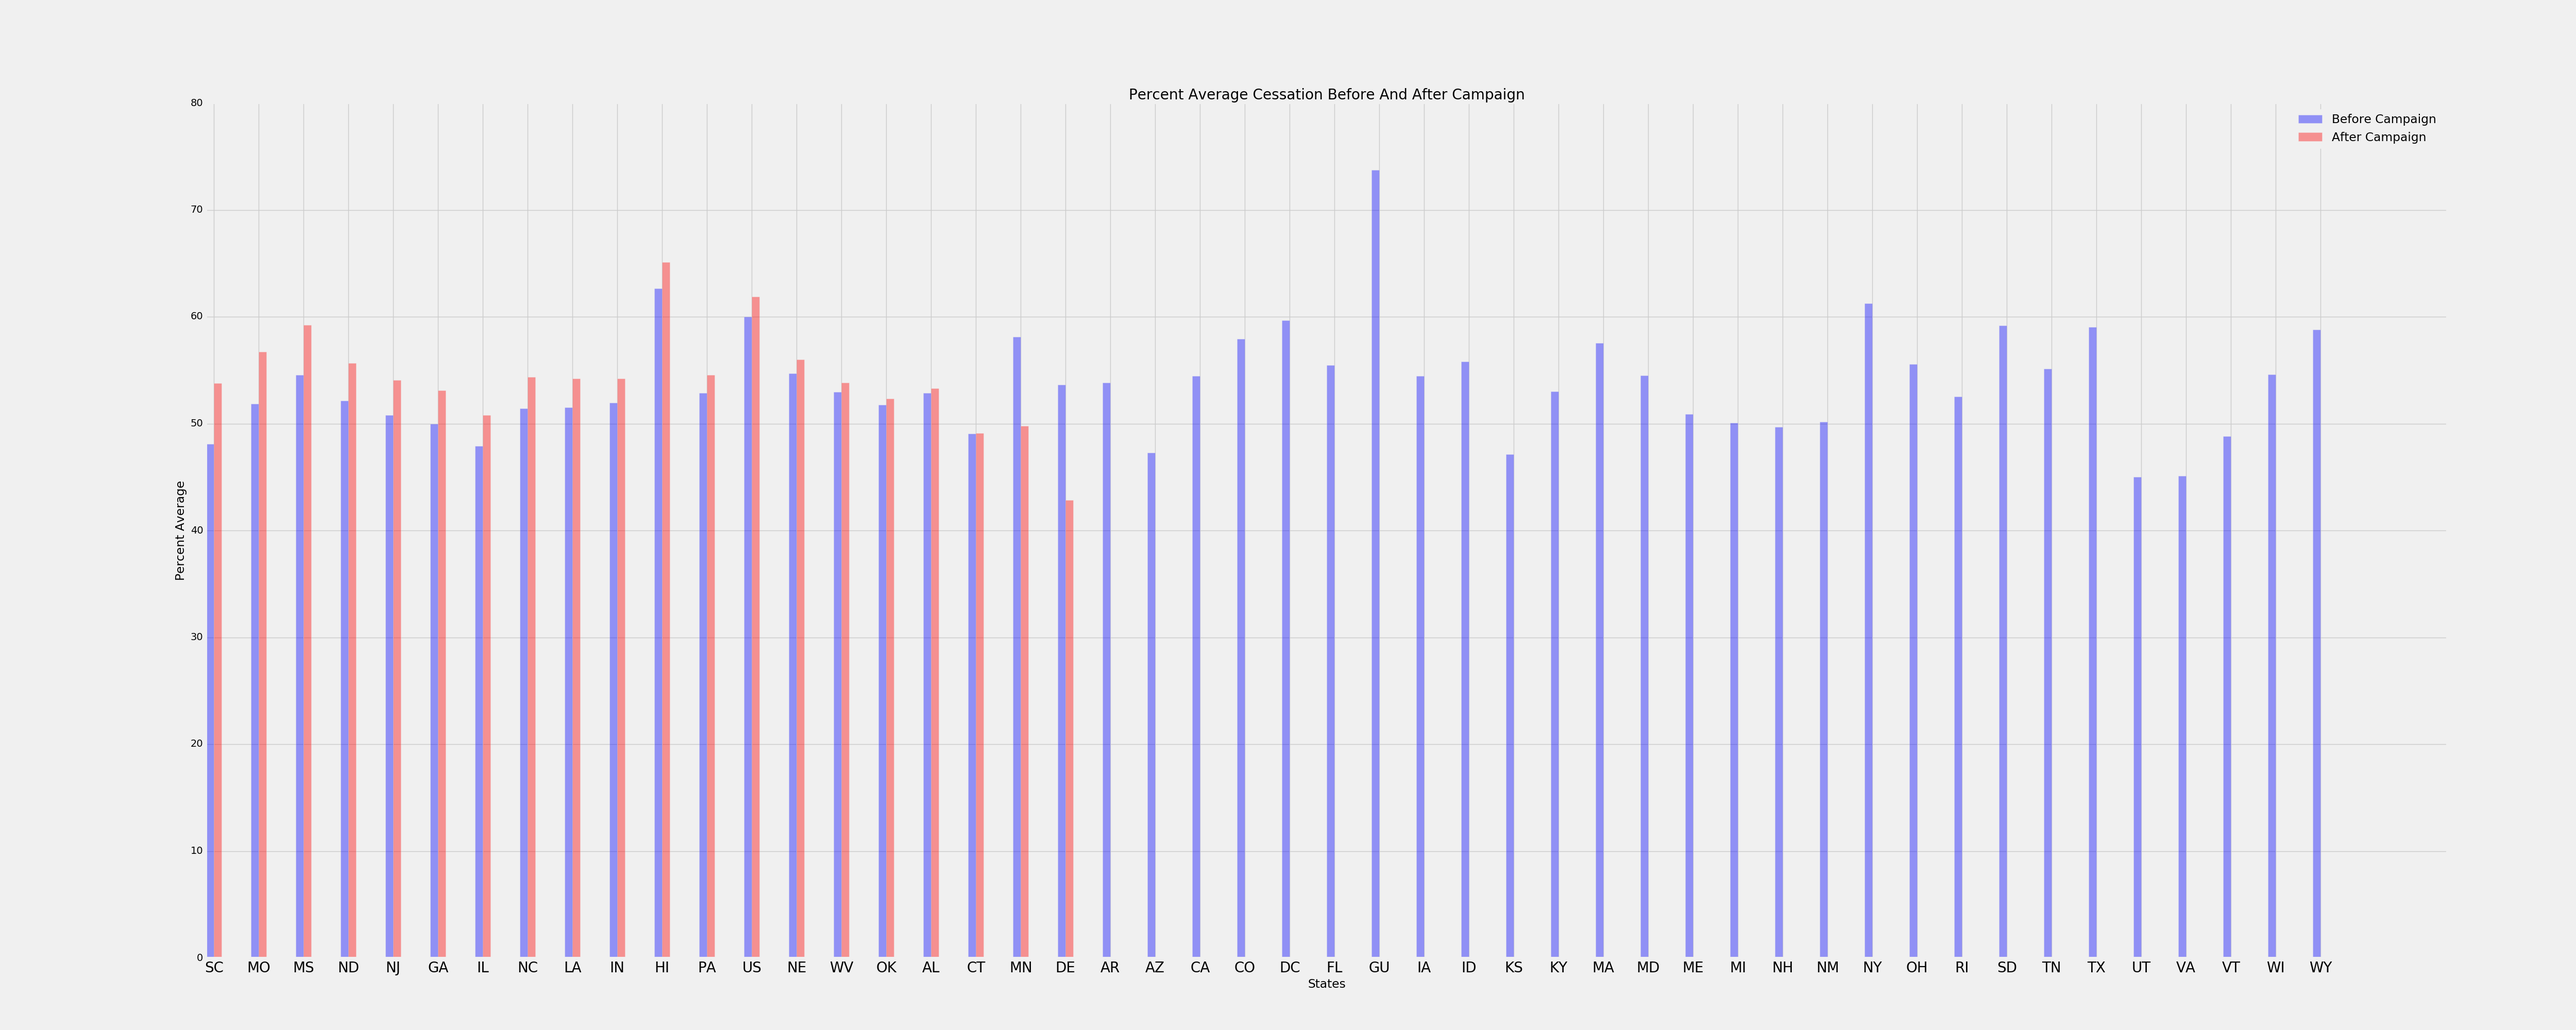
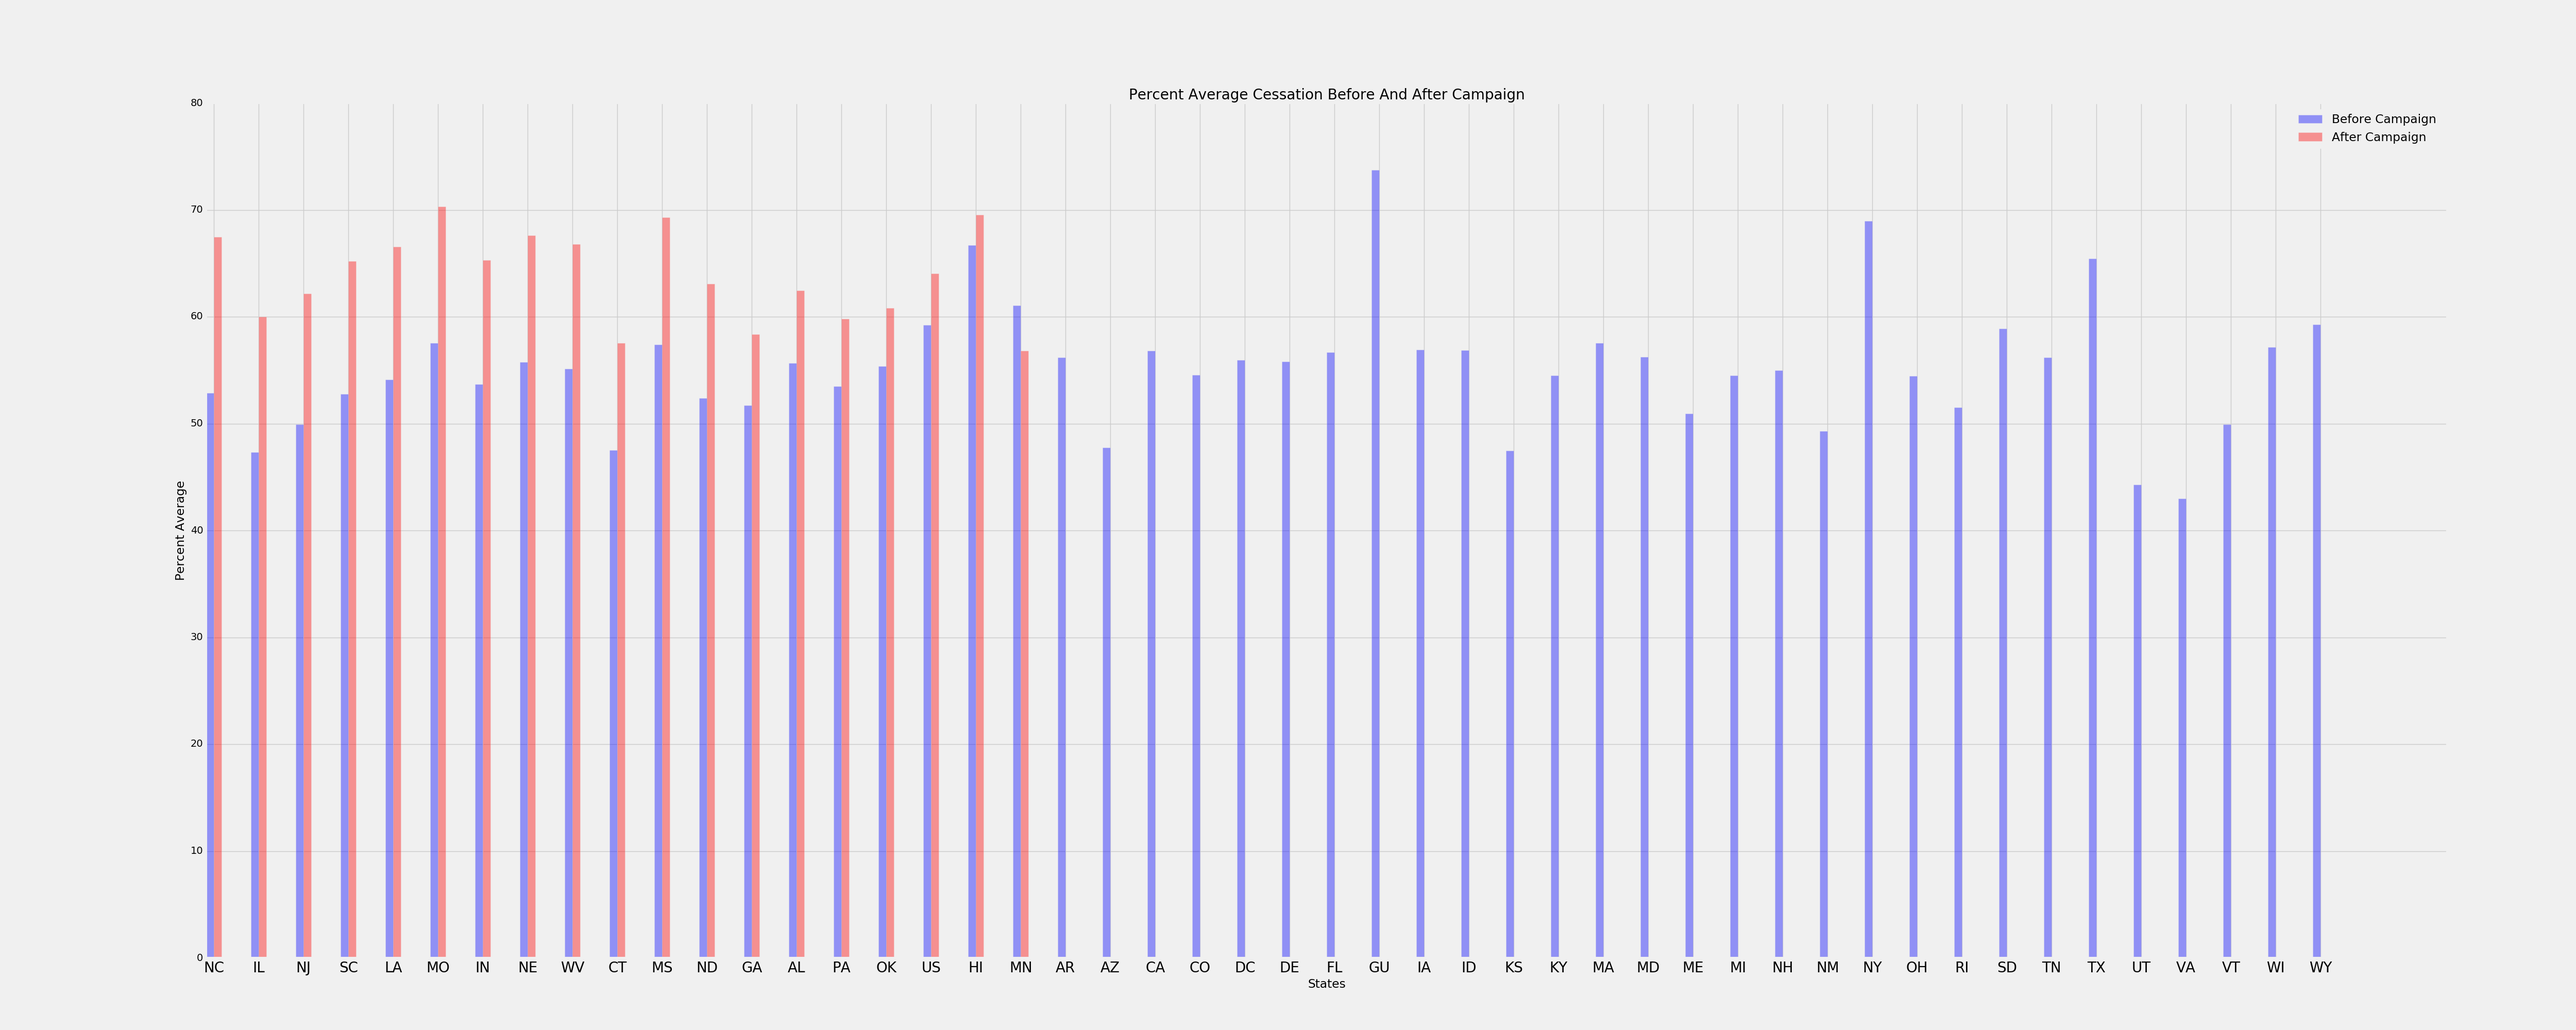
clean code an output file

diff --git a/Python Codes/StateCampaignAnalysis.py b/Python Codes/StateCampaignAnalysis.py
@@ -11,15 +11,19 @@ class StateCampaignAnalysis(YouthSmokingAnalysis):
         YouthSmokingAnalysis.__init__(self)
         
     def analyze(self):
+        print("\nBegin State vs Campaign Analysis")
         self.analyzeCigaretteUse()
         self.analyzeCessation()
         self.analyzeBeforeAndAfterCampaign()
         self.plotBeforeAndAfterCampaign(self.stateCigaretteUseResult,"Cigarette Use")
         self.plotBeforeAndAfterCampaign(self.stateSmokelessTobaccoUseResult,"Smokelese Tobacco")
         self.plotBeforeAndAfterCampaign(self.stateCessationTobaccoUseResult,"Cessation")
+        self.plotAnalyzeCessationAfterCampaign()
         self.plotCigaretteUseAfterCampaign()
+        print("\nEnd State vs Campaign Analysis")
         
     def analyzeCessation(self):
+        print("\nAnalyze Cessation Who Want to Quit VS Quit Attempt for each state.")
         self.stateAndCessation=self.ytsDataFrame[(self.ytsDataFrame.Gender=='Overall')
                                              & (self.ytsDataFrame.TopicDesc=='Cessation (Youth)')
                                              & (self.ytsDataFrame.YEAR>2012)][['YEAR','LocationAbbr','MeasureDesc','Data_Value']].groupby(['LocationAbbr','MeasureDesc'], as_index=False)['Data_Value'].mean()
@@ -39,14 +43,58 @@ class StateCampaignAnalysis(YouthSmokingAnalysis):
         
         self.stateAndCessationBC.reset_index( inplace=True)
         self.stateAndCessationCombine=pandas.merge( self.stateAndCessationBC, self.stateAndCessation, left_on=['LocationAbbr'], right_on=['LocationAbbr'])
-        print(self.stateAndCessationBC)
 
         outputFilePath = str(YouthSmokingAnalysis.outputCSVFolderName+'/State and Cessation Who Want to Quit VS Quit Attempt.csv')
         
         self.stateAndCessationCombine.to_csv(outputFilePath, encoding='utf-8')
+        print("\nAnalyze Cessation Who Want to Quit VS Quit Attempt for each state output file has been stored in ."+outputFilePath+" directory")
 
+    def plotAnalyzeCessationAfterCampaign(self):
+        print("\nPlot Cessation Who Want to Quit VS Quit Attempt for each state after campaign.")
+        plt.style.use('fivethirtyeight')
+
+        n_groups = len(self.stateAndCessation.index)
+        
+        whoWantToQuitDF = self.stateAndCessation["Percent of Current Smokers Who Want to Quit After Campaign"].values
+        quitAttemptCurrentDF= self.stateAndCessation["Quit Attempt in Past Year Among Current Cigarette Smokers After Campaign"].values
+           
+
+        fig, ax = plt.subplots()
+        fig.set_figheight(20)
+        fig.set_figwidth(50)
+        
+        index = numpy.arange(n_groups)
+        index = numpy.arange(0, n_groups * 2, 2)
+        bar_width = 0.35
+
+        opacity = 0.4
+        error_config = {'ecolor': '0.3'}
+
+        rects1 = plt.bar(index, whoWantToQuitDF, bar_width,
+                     alpha=opacity,
+                     color='b',
+                     error_kw=error_config,
+                     label='Percent of Current Smokers Who Want to Quit')
+
+        rects2 = plt.bar(index + bar_width, quitAttemptCurrentDF, bar_width,
+                     alpha=opacity,
+                     color='r',
+                     error_kw=error_config,
+                     label='Quit Attempt in Past Year Among Current Cigarette Smokers')
+        
+
+        plt.xlabel('States')
+        plt.ylabel('Percent Average')
+        plt.title('Percent Average Cessation After Campaign')
+        plt.xticks(index + bar_width+ bar_width, self.stateAndCessation.LocationAbbr,fontsize=20)
+       
+        plt.legend()
+        plotFilePath=YouthSmokingAnalysis.outputPlotFolderName+'/State Who Want to Quit VS Quit Attempt.png'
+        plt.savefig(plotFilePath)
+        print("\nPlot Cessation Who Want to Quit VS Quit Attempt for each state after campaign has been stored in ."+plotFilePath+" directory")
         
     def analyzeCigaretteUse(self):
+        print("\nAnalyze Cigarette Use (Frequent, Current, Ever) for each state.")
         self.stateAndCigaretteUse=self.ytsDataFrame[(self.ytsDataFrame.Gender=='Overall')
                                              & (self.ytsDataFrame.TopicDesc=='Cigarette Use (Youth)')
                                              & (self.ytsDataFrame.YEAR>2012)][['YEAR','LocationAbbr','MeasureDesc','Response','Data_Value']]
@@ -75,12 +123,13 @@ class StateCampaignAnalysis(YouthSmokingAnalysis):
         self.stateAndCigaretteUseBC.reset_index( inplace=True)
  
         self.stateAndCigaretteUseResponseCombine=pandas.merge( self.stateAndCigaretteUseBC, self.stateAndCigaretteUse, left_on=['LocationAbbr'], right_on=['LocationAbbr'])
-        outputFilePath = str(YouthSmokingAnalysis.outputCSVFolderName+'/State and Cigarette Use Response Before and After Campaign.csv')
+        outputFilePath = str(YouthSmokingAnalysis.outputCSVFolderName+'/State and Cigarette Use Response.csv')
  
         self.stateAndCigaretteUseResponseCombine.to_csv(outputFilePath, encoding='utf-8')
+        print("\nAnalyze Cigarette Use (Frequent, Current, Ever) for each state output file has been stored in ."+outputFilePath+" directory")
 
     def plotCigaretteUseAfterCampaign(self):
-        
+        print("\nPlot Cigarette Use (Frequent, Current, Ever) AfterCampaign each state after campaign.")
         plt.style.use('fivethirtyeight')
 
         n_groups = len(self.stateAndCigaretteUse.index)
@@ -125,13 +174,15 @@ class StateCampaignAnalysis(YouthSmokingAnalysis):
         plt.xticks(index + bar_width+ bar_width, self.stateAndCigaretteUse.LocationAbbr,fontsize=20)
        
         plt.legend()
-
-        plt.savefig(YouthSmokingAnalysis.outputPlotFolderName+'/State and Cigarette Use Response Before And After Campaign.png')
+        plotfilepath=YouthSmokingAnalysis.outputPlotFolderName+'/State and Cigarette Use Response.png'
+        plt.savefig(YouthSmokingAnalysis.outputPlotFolderName+'/State and Cigarette Use Response.png')
+        
+        print("\nPlot Cigarette Use (Frequent, Current, Ever) AfterCampaign each state after campaign has been stored in ."+plotfilepath+" directory")
         
 
     
     def analyzeBeforeAndAfterCampaign(self):
-       
+        print("\nAnalyze Cigarette Use , Smokeless Tobacco Use and Cessation for each state before and after campaign.")
         self.stateAndCigaretteUseAfterCampaign=self.ytsDataFrame[(self.ytsDataFrame.Gender=='Overall')
                                              & (self.ytsDataFrame.TopicDesc=='Cigarette Use (Youth)' )
                                              & (self.ytsDataFrame.MeasureDesc=='Smoking Status')
@@ -164,11 +215,13 @@ class StateCampaignAnalysis(YouthSmokingAnalysis):
         
         self.stateAndCessationBeforeCampaign=self.ytsDataFrame[(self.ytsDataFrame.Gender=='Overall')
                                              & (self.ytsDataFrame.TopicDesc=='Cessation (Youth)' )
+                                             & (self.ytsDataFrame.MeasureDesc =='Quit Attempt in Past Year Among Current Cigarette Smokers' )
                                              & (self.ytsDataFrame.YEAR<=2012)][['YEAR','LocationAbbr','Data_Value']]
         self.stateAndCessationBeforeCampaign=self.stateAndCessationBeforeCampaign.rename(columns={"Data_Value": "AverageBeforeCampaign"}).groupby(['LocationAbbr'])['AverageBeforeCampaign'].mean()
 
         self.stateAndCessationAfterCampaign=self.ytsDataFrame[(self.ytsDataFrame.Gender=='Overall')
                                              & (self.ytsDataFrame.TopicDesc=='Cessation (Youth)' )
+                                             & (self.ytsDataFrame.MeasureDesc =='Quit Attempt in Past Year Among Current Cigarette Smokers' )
                                              & (self.ytsDataFrame.YEAR>2012)][['YEAR','LocationAbbr','Data_Value']]
         self.stateAndCessationAfterCampaign=self.stateAndCessationAfterCampaign.rename(columns={"Data_Value": "AverageAfterCampaign"}).groupby(['LocationAbbr'])['AverageAfterCampaign'].mean()
 
@@ -180,11 +233,13 @@ class StateCampaignAnalysis(YouthSmokingAnalysis):
         self.stateCigaretteUseResult.to_csv(outputFilePath, encoding='utf-8')
         outputFilePath = str(YouthSmokingAnalysis.outputCSVFolderName+'/State and Smokeless Tobacco Before and After Campaign.csv')
         self.stateSmokelessTobaccoUseResult.to_csv(outputFilePath, encoding='utf-8')
-        outputFilePath = str(YouthSmokingAnalysis.outputCSVFolderName+'/State and Cessation Before and After Campaign.csv')
+        outputFilePath = str(YouthSmokingAnalysis.outputCSVFolderName+'/State and Quit Attempt Before and After Campaign.csv')
         self.stateCessationTobaccoUseResult.to_csv(outputFilePath, encoding='utf-8')
+        
+        print("\nAnalyze Cigarette Use , Smokeless Tobacco Use and Cessation for each state before and after campaign output file has been stored in ."+YouthSmokingAnalysis.outputCSVFolderName+" directory")
 
     def plotBeforeAndAfterCampaign(self,df,title):
-
+        print("\nPlot Cigarette Use , Smokeless Tobacco Use and Cessation for each state before and after campaign.")
         plt.style.use('fivethirtyeight')
 
         n_groups = len(df.index)
@@ -224,9 +279,10 @@ class StateCampaignAnalysis(YouthSmokingAnalysis):
 
         #plt.show()
         plt.savefig(YouthSmokingAnalysis.outputPlotFolderName+'/State And '+title+' Before And After Campaign.png')
+        print("\nPlot Cigarette Use , Smokeless Tobacco Use and Cessation for each state before and after campaign has been stored in ."+YouthSmokingAnalysis.outputPlotFolderName+" directory")
+        
 
-a = StateCampaignAnalysis()
-a.analyze()
+
 
         
 

diff --git a/Python Codes/YouthSmokingAnalysis.py b/Python Codes/YouthSmokingAnalysis.py
@@ -59,6 +59,5 @@ class YouthSmokingAnalysis:
         
         print("Output file is %s" %output_file)
 
-a=YouthSmokingAnalysis()
 
 
